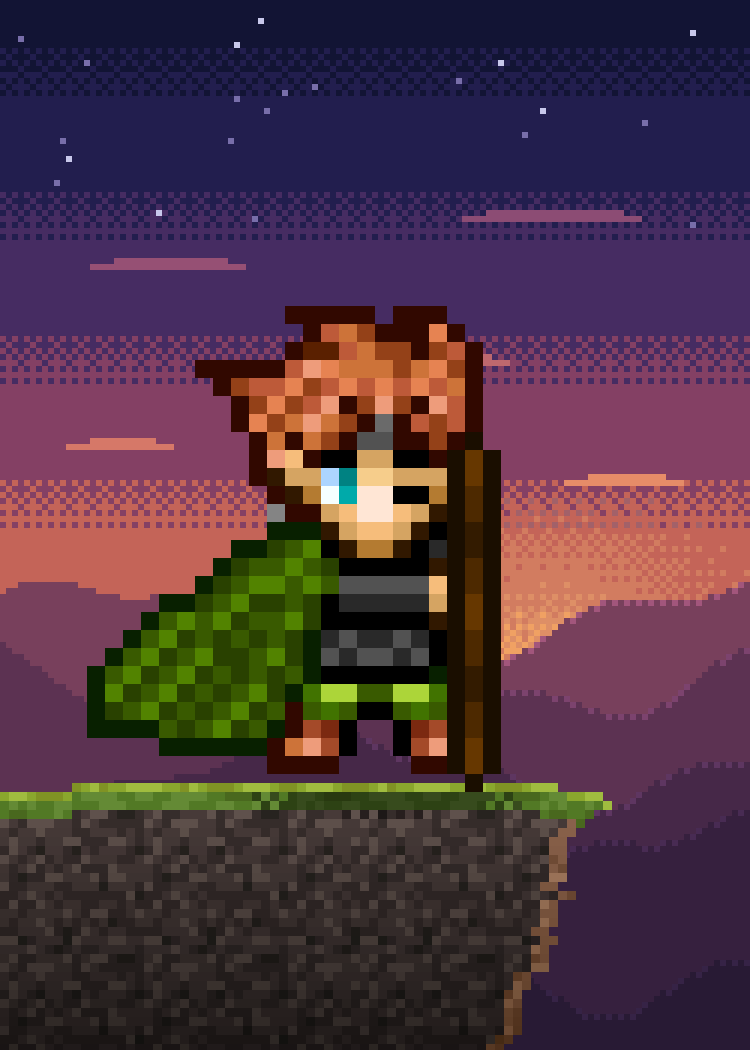
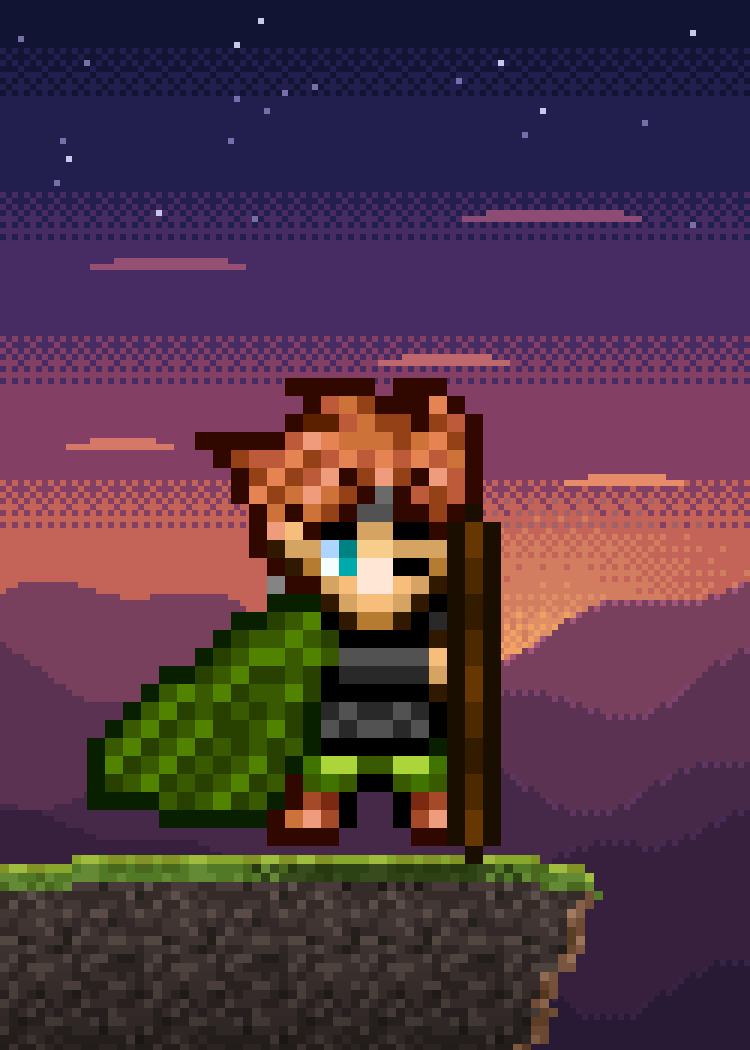
Runde 6: dritte Überarbeitung (Zwischenstand)
Claude-Session: https://claude.ai/code/session_01TEnvTzH2xD44R6Unjv7vDo

Changed region(s): [[0.0, 0.2743, 0.828, 1.0]]

diff --git a/data/sleeve-proposals/runde6/generator/s10_wowhalla_watch.py b/data/sleeve-proposals/runde6/generator/s10_wowhalla_watch.py
@@ -13,7 +13,8 @@ Quellen (MotiveCoolhalla.xcf, gemeinsames Koordinatensystem, Ausschnitt x 122–
   Ebene 221 „Ebene #16“  – Base-Thorad (rechte Figur; Szene „Sichtbar #5“ = Ebene 264, Lage 173,50; 0 px Abweichung).
   Ebene 253 „Ebene #11“  – Wowhalla-Schloss; 254 – Zahnräder; 251 – Eissaum am Schlossfuß.
   Ebene 257 „Ebene #12“  – Himmel mit Wolken; 255/256 – Schneehügel (diagonale Streifen, nach unten fortgesetzt).
-  Ebene 207 „Ebene #32“  – Regenbogen (vollständig, 134×37).
+  Ebene 207 „Ebene #32“  – Regenbogen: Bandfarben/-stärke (7×3 px) übernommen, als vollständiger Bogen hinter dem
+                           Schloss bis zum Boden fortgeführt (Feedback 3).
   Ebenen 215+214         – Wowkyrie auf dem Einhorn mit Regenbogenspur (Karte Wowkyrie, Szene Ebene 262).
   Ebenen 125+124+123     – Swagdri mit erhobenem Hammer (Karte „Swagdri, Forger of Coolness“, Szene Ebene 122).
   Ebene 201 „Ebene #84“  – Phatnir, Roboter mit Goldkette (Karte „Phatnir, Prototype of Coolness“).
@@ -94,7 +95,21 @@ bg = np.zeros((H1, W1, 4), np.uint8); bg[..., 3] = 255
 SH = sky.shape[0]
 yy = np.clip(np.arange(H1) + Y0, 0, SH - 1)
 bg[..., :3] = sky[yy][:, X0:X0 + W1, :3]
-put(bg, rainbow, 125 - rainbow.shape[1] // 2, 14)                  # ganzer Bogen über dem Schloss
+# Regenbogen als vollständiger, logischer Bogen hinter dem Schloss: dieselben 7 Bänder à 3 px und Farben wie Ebene 207
+# (Mitte), dieselben Kanten (oberste Bandzeile heller, unterste dunkler); die Schenkel laufen hinter den Seitentürmen
+# und dem Schnee bis zum Boden hinab und enden nirgends im Himmel.
+BANDS = [tuple(int(v) for v in sprite('o10_rainbow', B, [207])[y, 67, :3]) for y in range(0, 21, 3)]
+RCX, RCY, ROUT = 125, 128, 112                                      # Mittelpunkt/Außenradius (Canvas-Pixel)
+for y in range(0, RCY + 60):
+    for x in range(W1):
+        d = math.hypot(x + 0.5 - RCX, y + 0.5 - RCY)
+        k = ROUT - d
+        if 0 <= k < 21 and y < 300:
+            b_, r_ = int(k // 3), int(k) % 3
+            c = BANDS[b_]
+            if r_ == 0: c = tuple(min(255, int(v + (255 - v) * 0.35)) for v in c)
+            elif r_ == 2: c = shade(c, 0.8)
+            bg[y, x, :3] = c
 put(bg, wowkyrie, 14, 58)                                            # Wowkyrie reitet von links heran
 full = rest.copy()
 cm = castle[..., 3] > 0

diff --git a/data/sleeve-proposals/runde6/generator/s33_snipers_ledge.py b/data/sleeve-proposals/runde6/generator/s33_snipers_ledge.py
@@ -17,7 +17,7 @@ Selbst gezeichnet: Abendhimmel, Wolkenstreifen, Hügelketten, Umriss der Felsnas
 Skalierung (Tiefenebenen):
   Hintergrund: Himmel, Wolken, Hügelketten, Tal     – 2× (125×175)
   Mittelgrund: Felsnase mit Grasnarbe, Schatten      – 3× (84×117)
-  Vordergrund: Darge                                  – 6× (42×59); Darge 138×162 px, Füße y 264, Gesichtsmitte x = 375/750
+  Vordergrund: Darge                                  – 6× (42×59); Darge 138×162 px, Füße y 288, Gesichtsmitte x = 375/750
 """
 import math, random
 import numpy as np
@@ -70,7 +70,7 @@ for base, per, amp, ph, col in RIDGES:
 # ---------------- Mittelgrund 3× (84×117): Felsnase ---------------------------------------------------------------
 mw, mh = grid(3)
 mg = rgba(mw, mh)
-TOP = 88                                                         # Kuppe (3×) → y 264
+TOP = 96                                                         # Kuppe (3×) → y 288
 g = grass[..., :3].astype(float)
 r = rock[..., :3].astype(float)
 for y in range(TOP - 2, mh):
@@ -95,7 +95,7 @@ shade_ellipse(mg, 42.5, TOP + 1.2, 17, 1.4, 0.55)                # Bodenschatten
 # ---------------- Vordergrund 6× (42×59): Darge -------------------------------------------------------------------
 fw, fh = grid(6)
 fg = rgba(fw, fh)
-DF = 44                                                          # Füße → y 264
+DF = 48                                                          # Füße → y 288
 DX = (fw - darge.shape[1]) // 2
 put(fg, darge, DX, DF - darge.shape[0])
 

diff --git a/data/sleeve-proposals/runde6/notes_F.md b/data/sleeve-proposals/runde6/notes_F.md
@@ -1,6 +1,6 @@
 # Notizen Block F (31–35)
 31 | Tiger and Ox | One-Two-Punch! | Ghuanjun, the Undead Martial Artist | Nachts auf dem Friedhof seiner Heldenkarte (Grabkreuze, Schädel, Knochen auf dunklem Fels, Mond) steht Ghuanjun groß frontal; über seinen Schultern leuchten halbtransparent seine zwei Kampfgeister aus den Angriffskarten des Decks – links die Tigermaske (Ferocious Tiger Kick), rechts der Ochsenkopf (Strong Ox Headbutt): zwei verschiedene Angriffe pro Zug | Himmel/Mond/Hügel/Felsboden 2×; Grabkreuze, Schädel, Knochen, Bodenschatten 3×; Tiger- und Ochsengeist 4× (Mosaikzellen auf 1 Zelle = 1 Pixel zurückgerechnet: 14×13 bzw. 21×25 Zellen, Alpha 50 % je Pixel); Ghuanjun 6× (96×168) | Motive 170 „Ghuanjun-Kopie“ (Base, 0 px Abweichung zu Sichtbar #247 = Heldenkarte), 169 (Schädel/Knochen der Karte), 167 „Tiger Axe Kick #5“, 154 „Strong Ox Headbutt #3“, 1286 „Dark Land“ (Grabkreuz, Felskachel); Himmel, Mond, Hügel, Schein selbst gezeichnet | Rahmen: meander/lacquer/lava/jade
 32 | Scribe of Souls | Parts of the Soul | Thep, the Court Scribe | Ruhemoment im Grabgemach der Pyramide aus Theps Karte: Thep steht groß mit erhobener Feder und offenem Buch zwischen zwei gespiegelten grauen Pharaonen-Büsten, goldene Krüge vorn; über ihm schweben im Dunkel als türkis leuchtende Geister drei Seelenteile (Sekhem = Cover oben, Ka links, Khet rechts), deren Schein das einzige Licht ist – er holt „Soul Shards“ aus dem Ablagestapel zurück in seine Support-Zonen | Ziegelwand, Flechtboden, Büsten, Lichtschein 2×; Seelenteil-Geister (50 % transparent, türkis umgefärbt) und Krüge 3×; Thep 5× (115×155) | MotiveEgypt 159 „Thep“ (einzige Ebene, = Sichtbar #21 Heldenkarte), 173 „Ebene #98“ (Büste), 181 „Ebene #59“ (Krüge), 226+222 „Sekhem“, 208 „Ka“, 214 „Khet“; Ziegel- (32×16) und Flechtboden-Kachel (16×16) aus Szene 87 | Rahmen: arch/gold/cyan/sapphire
-33 | Sniper's Ledge | Pew-Pew! | Bow Sniper Darge | Freiluft-Szene (Nutzerwunsch „auf eine Klippe ins Freie“): In der Abenddämmerung steht Darge groß und frontal mit seinem Bogen auf der grasbewachsenen Kante einer Felsnase, die von links ins Bild ragt und rechts steil ins weite Tal abbricht – der Scharfschütze auf seinem Aussichtsposten; hinter ihm glüht der Abendhimmel über gestaffelten Hügelketten, die Abbruchkante fängt das letzte Licht; keine fliegenden Pfeile | Himmel, Wolkenstreifen, Hügelketten 2×; Felsnase mit Grasnarbe, Bodenschatten 3×; Darge 6× (138×162, Füße y 792/1050). Gesichtsmitte nachgemessen: x = 375 von 750 (Mitte zwischen den Augen, Sprite-Spalte 16,0; offenes Auge x 339–356) | MotiveDeri 248 „Darge“ + mittlerer Bogen aus 244 „Darge #1“ (Base, geprüft gegen Sichtbar 53 = Heldenkarte); Motive Szene 88 (Gras-Kachel der Flame-Arrow-Karte), 1286 „Dark Land“ (Felskachel); Himmel, Hügel, Felsumriss, Lichtsäume selbst gezeichnet | Rahmen: twist/bronze/emerald/amber
+33 | Sniper's Ledge | Pew-Pew! | Bow Sniper Darge | Freiluft-Szene (Nutzerwunsch „auf eine Klippe ins Freie“): In der Abenddämmerung steht Darge groß und frontal mit seinem Bogen auf der grasbewachsenen Kante einer Felsnase, die von links ins Bild ragt und rechts steil ins weite Tal abbricht – der Scharfschütze auf seinem Aussichtsposten; hinter ihm glüht der Abendhimmel über gestaffelten Hügelketten, die Abbruchkante fängt das letzte Licht; keine fliegenden Pfeile | Himmel, Wolkenstreifen, Hügelketten 2×; Felsnase mit Grasnarbe, Bodenschatten 3×; Darge 6× (138×162, Füße y 864/1050, auf Nutzerwunsch samt Felsnase/Graskante um 72 px tiefer). Gesichtsmitte nachgemessen: x = 375 von 750 (Mitte zwischen den Augen, Sprite-Spalte 16,0; offenes Auge x 339–356) | MotiveDeri 248 „Darge“ + mittlerer Bogen aus 244 „Darge #1“ (Base, geprüft gegen Sichtbar 53 = Heldenkarte); Motive Szene 88 (Gras-Kachel der Flame-Arrow-Karte), 1286 „Dark Land“ (Felskachel); Himmel, Hügel, Felsumriss, Lichtsäume selbst gezeichnet | Rahmen: twist/bronze/emerald/amber
 34 | Tormentor's Den | Poison Torture | Reiza, the Chief Tormentor | Porträt in ihrem Verlies: Reiza schwebt frontal mit weit ausgebreiteten Fledermausflügeln vor der dunklen Kerkerwand (Rundstein-Kante mit heller Risslinie aus ihrer Szene), ihr Schwebeschatten liegt auf dem Boden; links und rechts steigen die violett-grünen Decay-Schwaden ihrer Karte auf, auf dem Boden Stachelfelder, vorn rote Toxic-Trap-Pilze und eine Giftphiole – Betäuben und Vergiften | Wand, Risslinie, Boden, Decay-Schwaden (weiches Alpha in Viertelstufen je 2×-Pixel) 2×; Stacheln, Pilze, Phiole 3×; Reiza + Schatten 4× (200×124) | Motive 204 „Reiza #3“ (Base; = Szene 201 „Sichtbar #241“ bis auf deren Abdunklungsebene), 202 (Schwebeschatten), 203 (Decay-Schwaden), 230 „Ebene #492“ (Kerkerkarte: Wandkante, Fels, Stacheln), 1237 „Toxic Trap“, 1064 „Poison Vial“ | Rahmen: bone/gothic/amethyst/lime
 35 | Pyre of the Warband | Sacrificial Demons | Calamitusk, the Chaorc War Chief | Nacht im Krater des Chaorc-Lagers: Calamitusk steht ganz vorn groß (6×) und vom Feuer hinter ihm rot umrandet; links neben/hinter ihm steckt sein Kriegsbanner mit dem Flammenauge im Boden (auf der Heldenkarte hält er es – hier aufgepflanzt, damit er selbst das Hauptmotiv bleibt); weit hinten im Krater lodert das große Opferfeuer, um das seine Horde steht – links der Chaorc Ruin Mourner und ein rot vermummter Chaorc, rechts zwei weitere rot vermummte –, alle mit Bodenschatten im Feuerschein (Asriel auf Nutzerwunsch entfernt) | Himmel, Kraterhang, Lagerboden, Feuer, vier Chaorcs, Schatten 2×; aufgepflanztes Banner mit Stabschatten 3× (108×129); Calamitusk + Schatten 6× (132×126) | MotiveHawaii 137 „Calamitustk-Kopie“ (Base, geprüft gegen Sichtbar #17 = Heldenkarte), 133 (sein Banner; Stablücke unter seiner Hand geschlossen), 123 + 130 (Lagerfeuer mit Scheitholz), 128 (zwei vermummte Chaorcs), 129 (vermummter Chaorc), 111 „Ruin Mourner“, 269 (Boden- und Hangkachel); Himmel, Schein, roter Lichtsaum selbst gezeichnet | Rahmen: industrial/iron/lava/onyx
